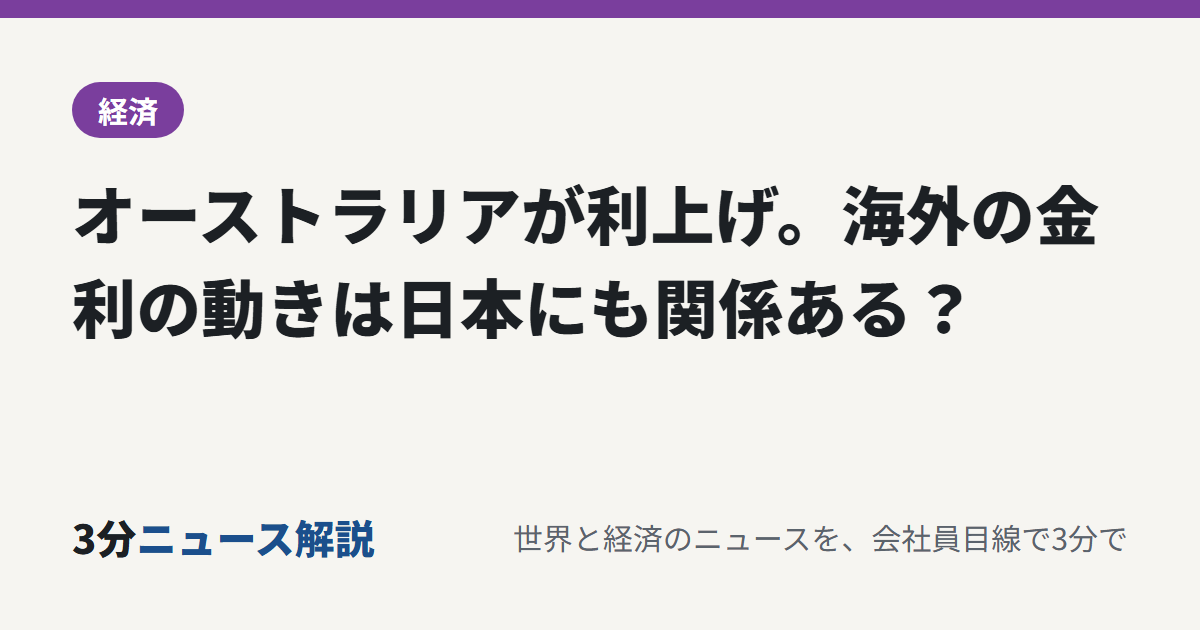
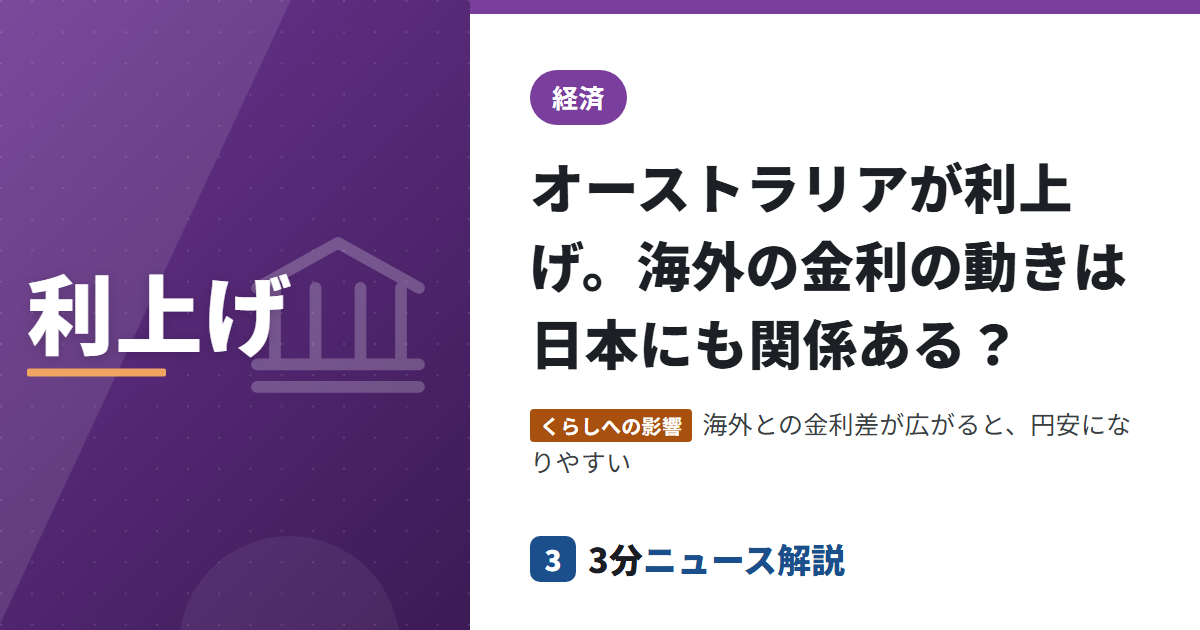
SNS共有画像をサイトと同じデザインに作り直し

diff --git a/build.py b/build.py
@@ -212,17 +212,19 @@ def bold_numbers(body):
 
 
 # ---------- SNS用画像 ----------
-OG_TEMPLATE = """<!doctype html><html><head><meta charset="utf-8"><style>
-html,body{{margin:0;width:1200px;height:630px;overflow:hidden}}
-body{{background:#f6f5f1;font-family:"Noto Sans JP","Yu Gothic",sans-serif;color:#1c2024;
- display:flex;flex-direction:column;justify-content:space-between;padding:64px 72px;box-sizing:border-box;
- border-top:18px solid {color}}}
-.cat{{display:inline-block;background:{color};color:#fff;font-weight:700;font-size:30px;padding:6px 26px;border-radius:999px}}
-h1{{font-size:{size}px;line-height:1.45;font-weight:900;margin:28px 0 0;letter-spacing:.01em}}
-.foot{{display:flex;justify-content:space-between;align-items:center;font-size:30px;color:#5b636c}}
-.logo{{font-weight:900;font-size:40px;color:#1c2024}} .logo b{{color:#1b4f8c}}
-</style></head><body><div><span class="cat">{cat}</span><h1>{title}</h1></div>
-<div class="foot"><span class="logo">3分<b>ニュース解説</b></span><span>{tagline}</span></div></body></html>"""
+OG_TEMPLATE = """<!doctype html><html><head><meta charset="utf-8"><link rel="stylesheet" href="{css}"><style>
+html,body{{margin:0;width:1200px;height:630px;overflow:hidden;background:#fff}}
+body{{display:flex;font-family:"Noto Sans JP","Yu Gothic",sans-serif;color:#1c2024}}
+.left{{width:470px;flex:none}} .left .art{{width:470px;height:630px;aspect-ratio:auto}}
+.left .art-cat,.left .art-logo{{display:none}}
+.right{{flex:1;display:flex;flex-direction:column;justify-content:space-between;padding:56px 60px 48px;border-top:14px solid {color}}}
+.cat{{display:inline-block;background:{color};color:#fff;font-weight:700;font-size:26px;padding:4px 22px;border-radius:999px}}
+h1{{font-size:{size}px;line-height:1.45;font-weight:900;margin:22px 0 0}}
+.imp{{margin-top:22px;font-size:25px;line-height:1.55;color:#3a3f45}} .imp b{{background:#a8500e;color:#fff;font-size:20px;padding:2px 10px;border-radius:4px;margin-right:10px}}
+.logo{{display:flex;align-items:center;gap:12px;font-weight:900;font-size:34px}} .logo b{{color:#1b4f8c}}
+.logo i{{display:inline-grid;place-items:center;width:46px;height:46px;border-radius:10px;background:#1b4f8c;color:#fff;font-style:normal;font-size:28px}}
+</style></head><body><div class="left">{art}</div><div class="right"><div><span class="cat">{cat}</span><h1>{title}</h1>{impact}</div>
+<div class="logo"><i>3</i><span>3分<b>ニュース解説</b></span></div></div></body></html>"""
 
 
 def make_og_images(arts):
@@ -232,21 +234,26 @@ def make_og_images(arts):
     if not EDGE.exists():
         print("注意：Edge が見つからないため、SNS用画像は作りません")
         return
-    jobs = [(a["slug"], CATS[a["category"]], a["title"], CAT_COLOR[a["category"]]) for a in arts
-            if not (out_dir / f"{a['slug']}.png").exists()]
+    jobs = [a for a in arts if not (out_dir / f"{a['slug']}.png").exists()]
     if not (out_dir / "default.png").exists():
-        jobs.append(("default", "ニュース解説", "むずかしいニュースを、会社員目線で3分で。", "#1b4f8c"))
+        jobs.append({"slug": "default", "category": "world", "title": "むずかしいニュースを、会社員目線で3分で。",
+                     "eyecatch": "3分解説", "body": "", "description": ""})
     with tempfile.TemporaryDirectory() as tmp:
-        for slug, cat, title, color in jobs:
-            size = 64 if len(title) <= 30 else 56 if len(title) <= 40 else 50
-            src = Path(tmp) / f"{slug}.html"
-            src.write_text(OG_TEMPLATE.format(cat=e(cat), title=e(title), color=color, size=size,
-                                              tagline=TAGLINE), encoding="utf-8")
+        for a in jobs:
+            title = a["title"]
+            size = 54 if len(title) <= 30 else 48 if len(title) <= 40 else 44
+            imp = f'<p class="imp"><b>くらしへの影響</b>{e(a["impact"])}</p>' if a.get("impact") else ""
+            src = Path(tmp) / f"{a['slug']}.html"
+            cat = "ニュース解説" if a["slug"] == "default" else CATS[a["category"]]
+            color = "#1b4f8c" if a["slug"] == "default" else CAT_COLOR[a["category"]]
+            src.write_text(OG_TEMPLATE.format(css=(ROOT / "style.css").as_uri(), art=thumb(a, "", "og-art", lazy=False),
+                                              cat=e(cat), title=e(title), color=color, size=size, impact=imp),
+                           encoding="utf-8")
             subprocess.run([str(EDGE), "--headless=new", "--disable-gpu", "--hide-scrollbars", "--no-first-run",
                             f"--user-data-dir={Path(tmp) / 'profile'}", "--window-size=1200,630",
-                            f"--screenshot={out_dir / (slug + '.png')}", src.as_uri()],
+                            f"--screenshot={out_dir / (a['slug'] + '.png')}", src.as_uri()],
                            capture_output=True, timeout=60)
-            print(f"SNS用画像を作成：{slug}")
+            print(f"SNS用画像を作成：{a['slug']}")
 
 
 THUMB_TEMPLATE = """<!doctype html><html><head><meta charset="utf-8"><style>
